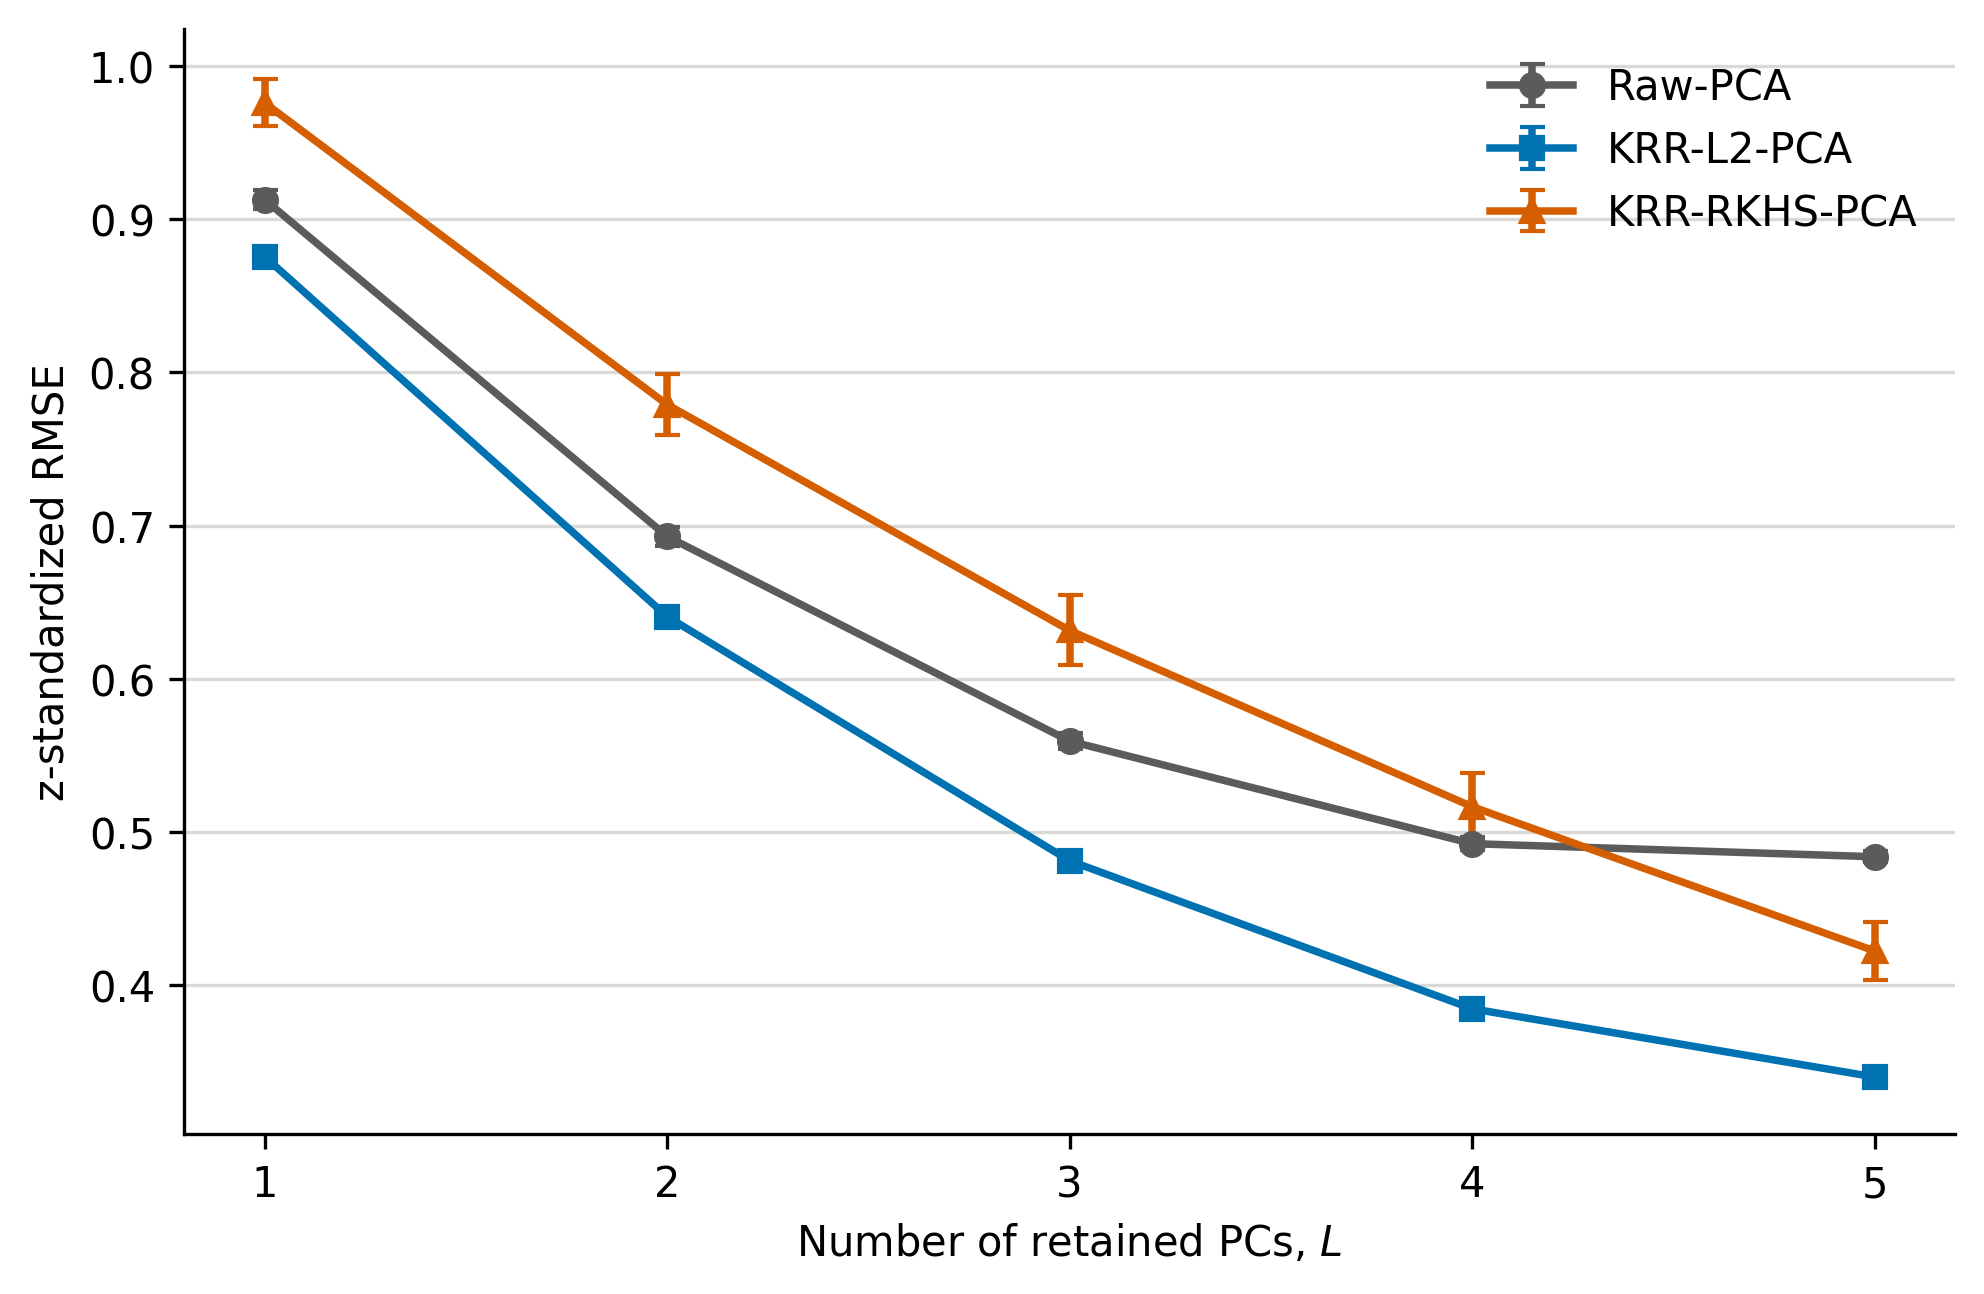
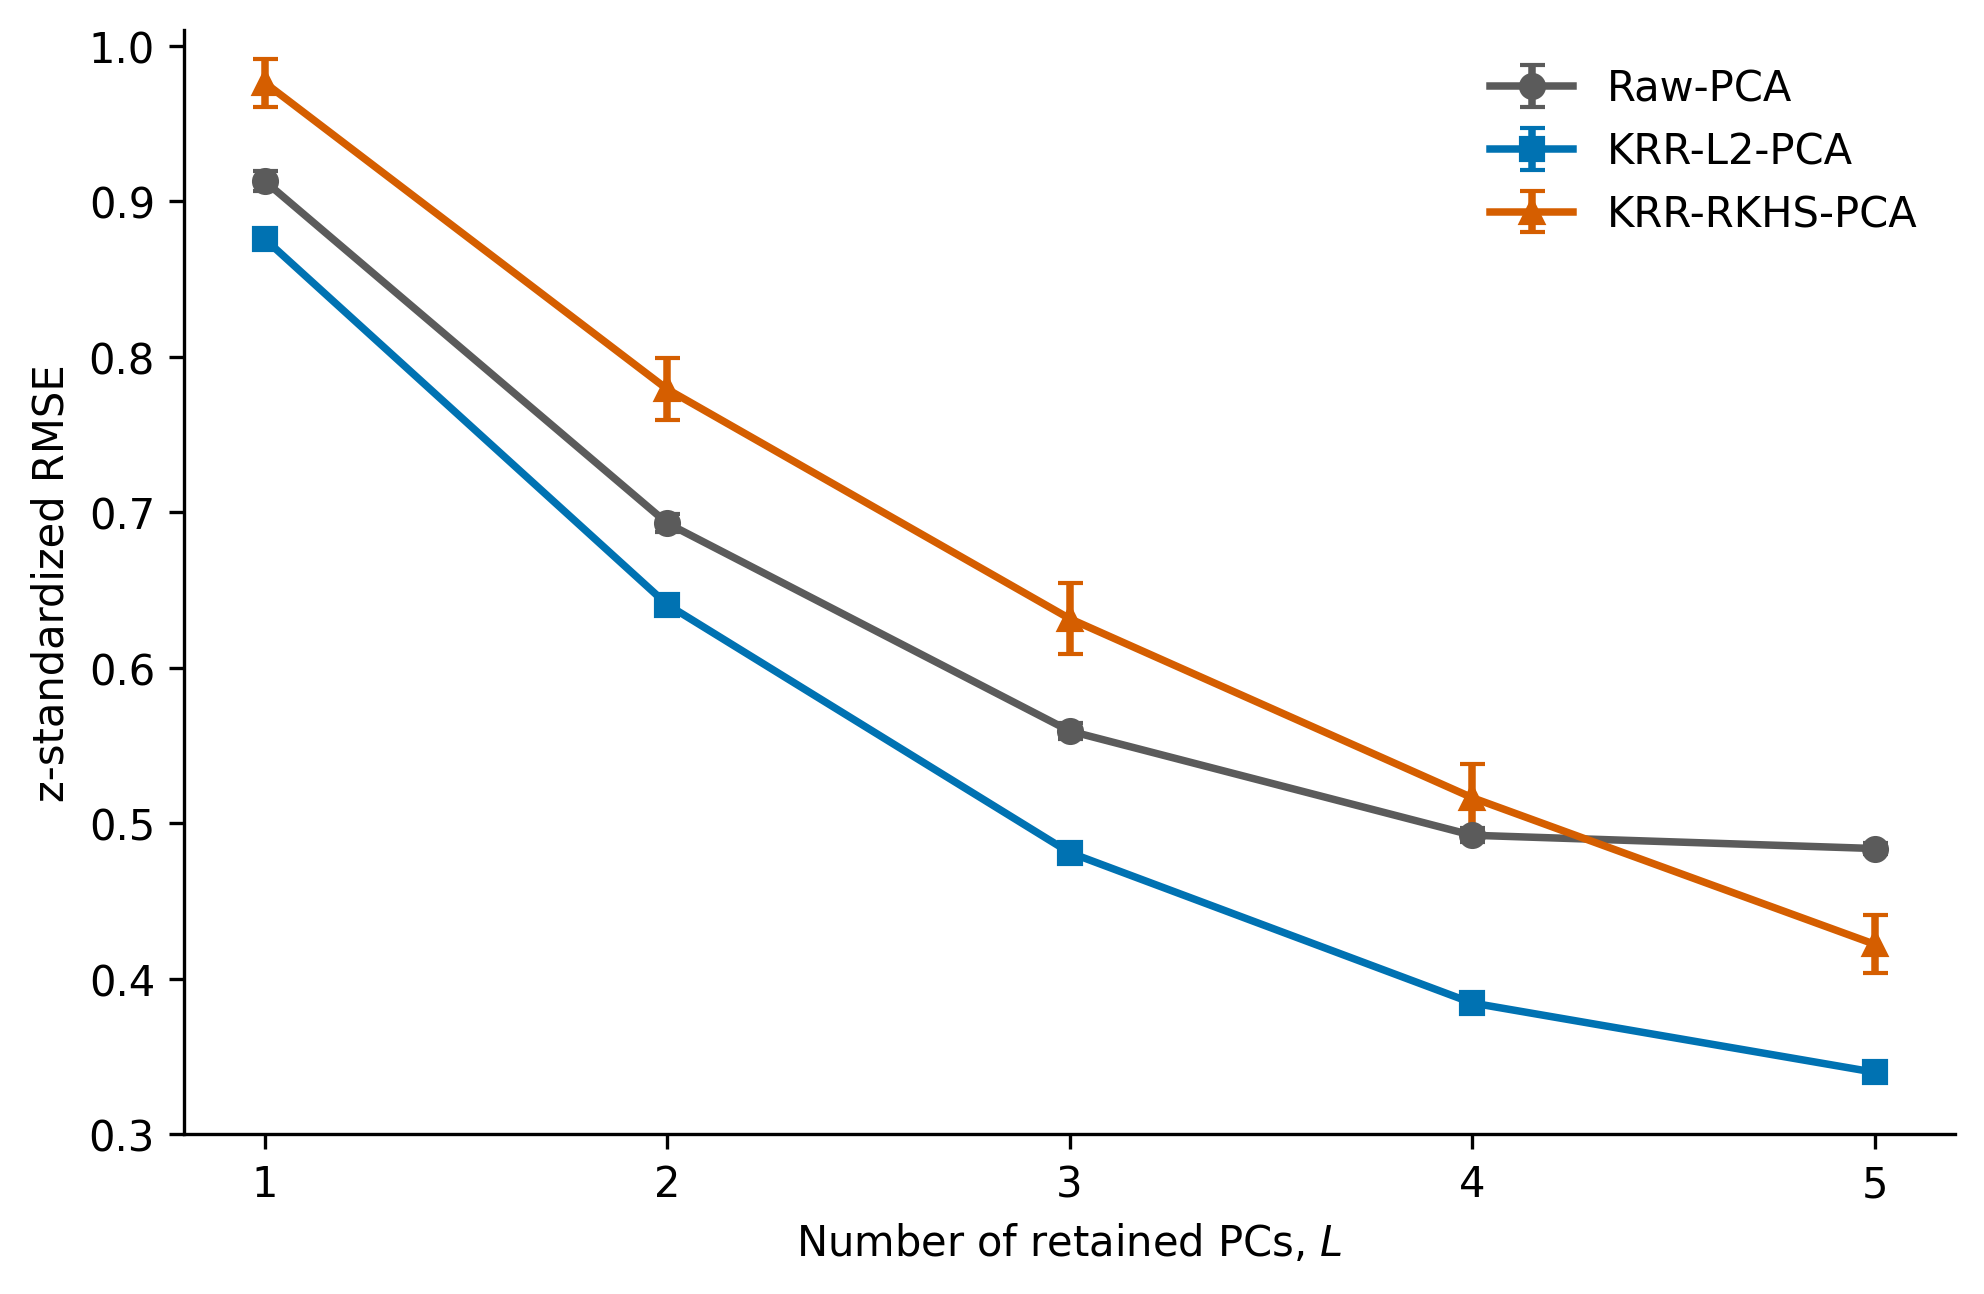
Refine simulation figure

diff --git a/simulation/code/make_manuscript_simulation_figures.py b/simulation/code/make_manuscript_simulation_figures.py
@@ -68,7 +68,8 @@ def plot_reconstruction_metric(
     ax.set_xlabel("Number of retained PCs, $L$")
     ax.set_ylabel(ylabel)
     ax.set_xticks([1, 2, 3, 4, 5])
-    ax.grid(axis="y", color="#D9D9D9", linewidth=0.8)
+    ax.set_ylim(0.30, 1.01)
+    ax.set_yticks(np.arange(0.3, 1.01, 0.1))
     ax.spines[["top", "right"]].set_visible(False)
     ax.legend(frameon=False)
     save_figure(fig, stem)
